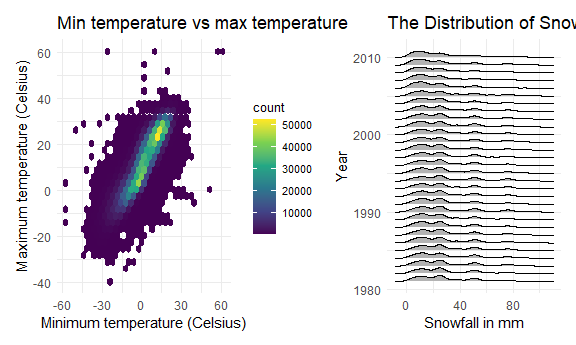
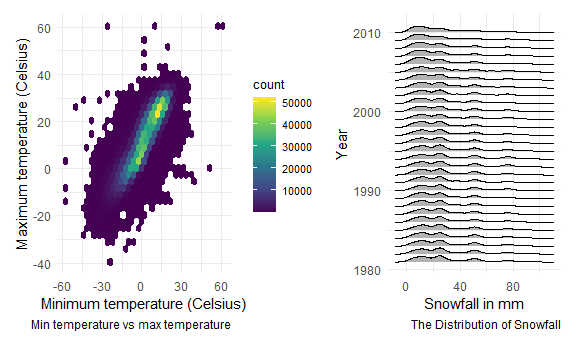
adjusting title of plots in question 3

diff --git a/p8105_homework3_nf2466.md b/p8105_homework3_nf2466.md
@@ -295,7 +295,7 @@ values greater than 0 and less than 100 separately by year.*
   guides(color="none") +
   theme(legend.position = "right", legend.title = element_text(size = 10), legend.text = element_text(size = 8)) +
   labs(
-    title = "Min temperature vs max temperature",
+    caption = "Min temperature vs max temperature",
     x = "Minimum temperature (Celsius)",
     y = "Maximum temperature (Celsius)",
     size=rel(0.50)
@@ -307,7 +307,7 @@ snowfall_p =
   ggplot(aes(x =snow, y=year, group = year)) +
   ggridges::geom_density_ridges(scale = 0.85) + 
   labs(
-    title = "The Distribution of Snowfall",
+    caption = "The Distribution of Snowfall",
     y = "Year",
     x = "Snowfall in mm",
     size=rel(0.50)
